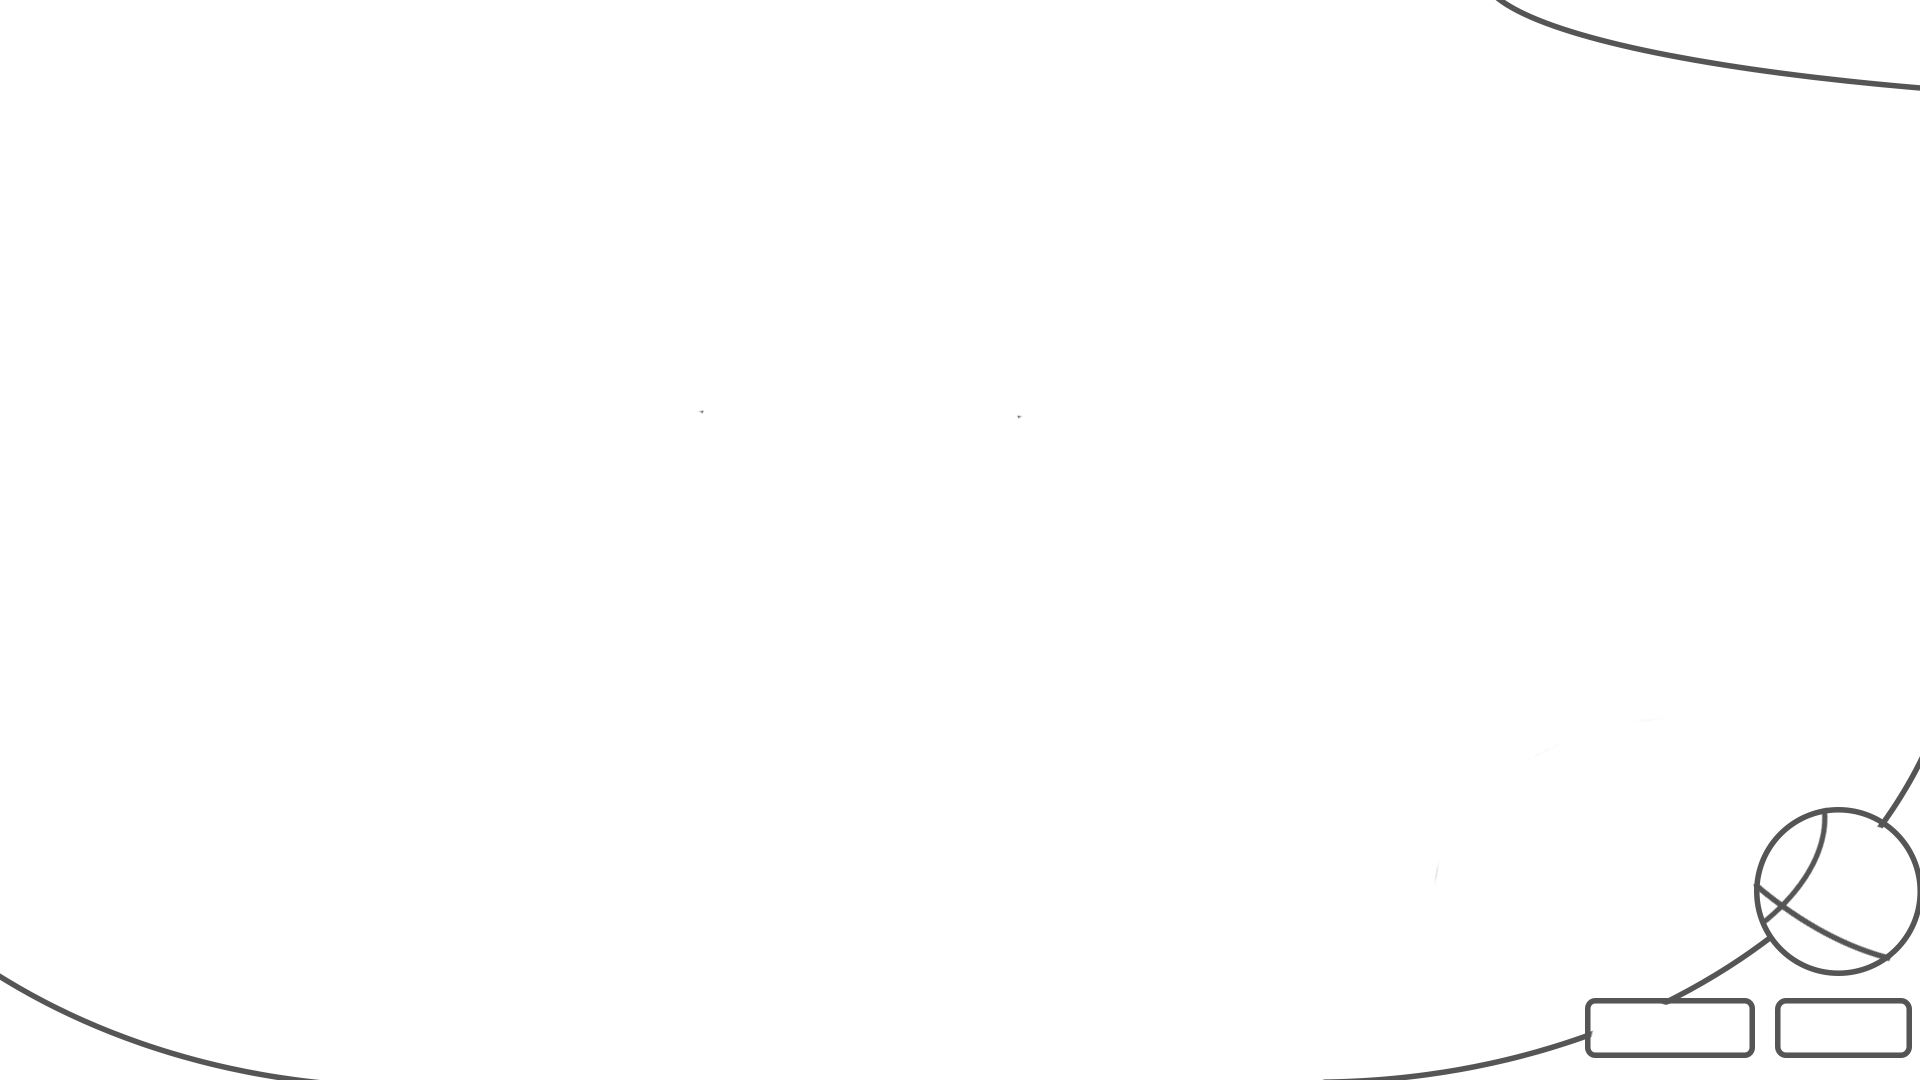
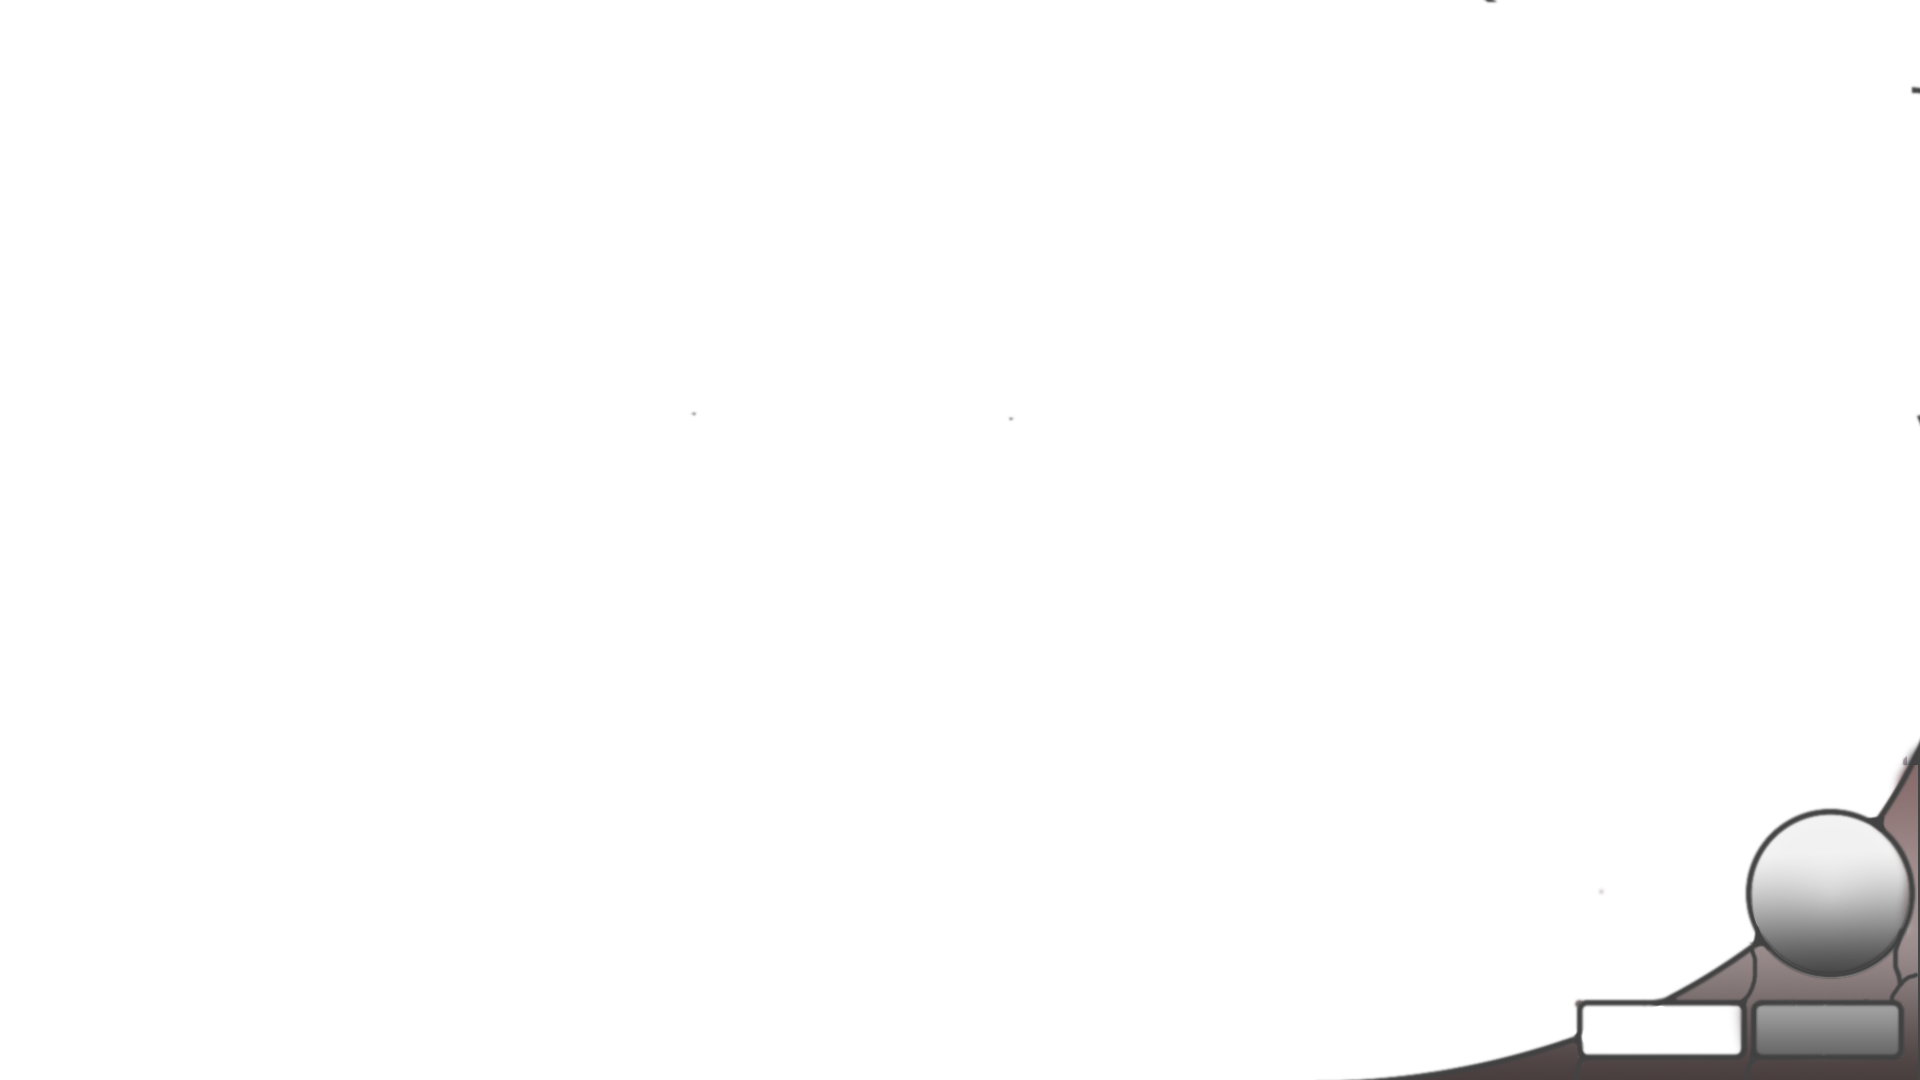
New interface

diff --git a/GameObject/base.cpp b/GameObject/base.cpp
@@ -1,10 +1,10 @@
 #include "base.h"
 
 const Size Base::kBaseSize = Size(50, 50);
-const Coordinate Base::kHealthPosition = Coordinate(1465, 945);
-const Size Base::kHealthSize = Size(160, 120);
-const Coordinate Base::kGoldPosition = Coordinate(1680, 960);
-const Size Base::kGoldSize = Size(220, 80);
+const Coordinate Base::kHealthPosition = Coordinate(1748, 811);
+const Size Base::kHealthSize = Size(167, 167);
+const Coordinate Base::kGoldPosition = Coordinate(1581, 1002);
+const Size Base::kGoldSize = Size(164, 57);
 
 Base::Base(int gold, double max_health, Coordinate position)
     : GameObject(Size(0, 0), position), gold_(gold),
@@ -35,18 +35,21 @@ void Base::DrawUI(QPainter* painter, const SizeHandler& size_handler) const {
   font.setFamily(QFontDatabase::applicationFontFamilies(0).at(0));
   painter->setFont(font);
 
-  Coordinate health_top_corner = size_handler.GameToWindowCoordinate(
-      {kHealthPosition.x, kHealthPosition.y
-          + kHealthSize.height * (1 - current_health_ / max_health_)});
   Coordinate health_background = size_handler.GameToWindowCoordinate(
       kHealthPosition);
   Size health_size = size_handler.GameToWindowSize(kHealthSize);
-  painter->setBrush(Qt::black);
-  painter->drawRect(health_background.x, health_background.y,
-                    health_size.width, health_size.height);
   painter->setBrush(Qt::red);
-  painter->drawRect(health_top_corner.x, health_top_corner.y,
-                    health_size.width, health_size.height);
+  painter->drawEllipse(health_background.x, health_background.y,
+                       health_size.width, health_size.height);
+
+  painter->setBrush(Qt::black);
+  double eng = 0 + (1 - current_health_ / max_health_) * 180;
+  painter->drawChord(health_background.x,
+                     health_background.y,
+                     health_size.width,
+                     health_size.height,
+                     -eng * 16 + 90 * 16,
+                     2 * eng * 16);
 
   painter->setBrush(QBrush(qRgb(103, 103, 103)));
   Coordinate gold_top_corner = size_handler.GameToWindowCoordinate(

diff --git a/View/button_handler.cpp b/View/button_handler.cpp
@@ -3,7 +3,7 @@
 ButtonHandler::ButtonHandler(QMainWindow* main_window,
                              AbstractController* controller, int font_id)
     : QObject(main_window), main_window_(main_window), controller_(controller),
-    font_id_(font_id) {
+      font_id_(font_id) {
   CreateButtons();
   window_type_ = WindowType::kMainMenu;
 }
@@ -247,9 +247,9 @@ void ButtonHandler::CreateGameButtons() {
 
 void ButtonHandler::RescaleGameButtons(SizeHandler size_handler) {
   Size shift = Size(short_button_size_.width + shift_, 0);
-  pause_button_->SetGeometry({10, 10}, size_handler);
+  pause_button_->SetGeometry({25, 20}, size_handler);
   Coordinate zero_speed_button_coordinate =
-      Coordinate(constants::kGameWidth - 20, 20) - shift * 2
+      Coordinate(constants::kGameWidth - shift_ * 2, 20) - shift * 2
           - Size(short_button_size_.width, 0);
   zero_speed_button_->SetGeometry(zero_speed_button_coordinate, size_handler);
   normal_speed_button_->SetGeometry(zero_speed_button_coordinate + shift,

diff --git a/View/view.cpp b/View/view.cpp
@@ -233,8 +233,8 @@ void View::DrawRoundInfo(QPainter* painter) {
   Coordinate round_info_position = size_handler_.GameToWindowCoordinate(
       kRoundPosition);
   Size round_info_size = size_handler_.GameToWindowSize(kRoundSize);
-  QString round_info = tr("Раунд") + " " +
-      QString::number(controller_->GetCurrentRoundNumber()) + " " + tr("из") +
+  QString round_info = tr(" ") +
+      QString::number(controller_->GetCurrentRoundNumber()) + " " + tr("/") +
       " " + QString::number(controller_->GetRoundsCount());
   painter->drawText(round_info_position.x, round_info_position.y,
                     round_info_size.width, round_info_size.height,

diff --git a/View/view.h b/View/view.h
@@ -54,8 +54,8 @@ class View : public QMainWindow {
   bool is_tower_menu_enabled_ = false;
   double game_speed_coefficient_ = 1;
 
-  const Coordinate kRoundPosition = {690, 0};
-  const Size kRoundSize = {540, 75};
+  const Coordinate kRoundPosition = {1758, 1001};
+  const Size kRoundSize = {120, 60};
 
  private:
   // Events
